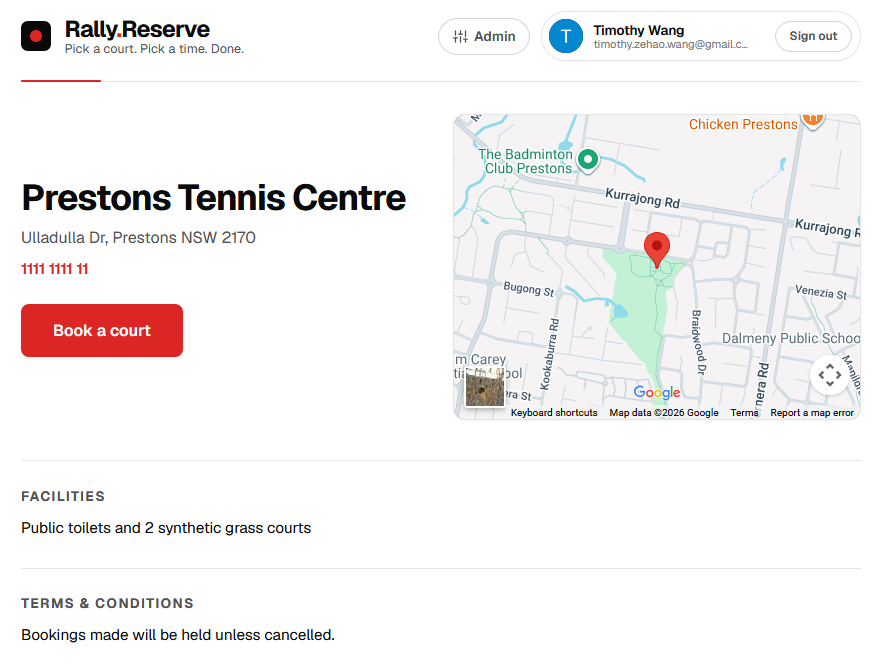
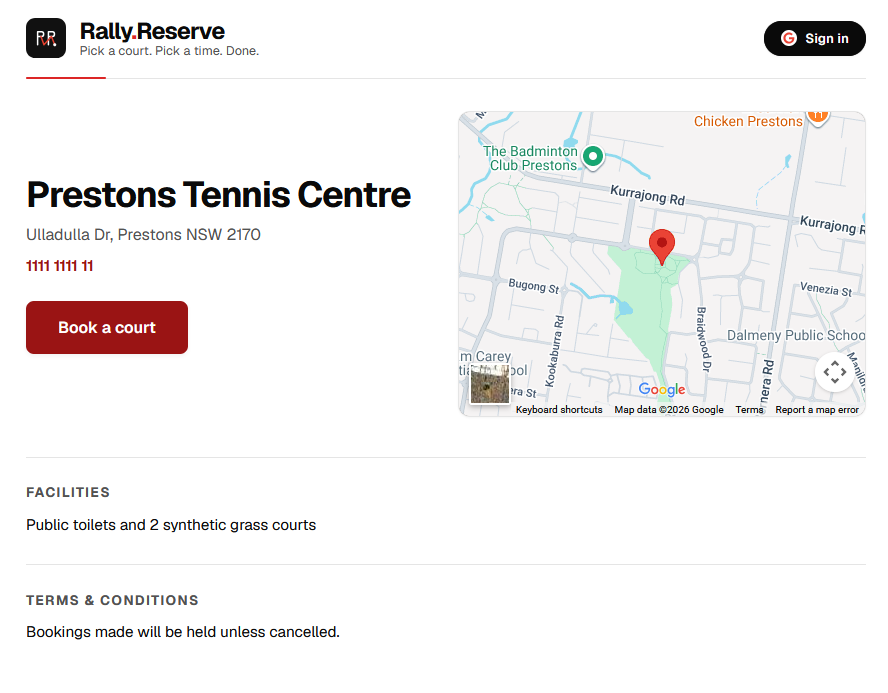
update rally reserve pic

diff --git a/AGENTS.md b/AGENTS.md
@@ -1,0 +1,19 @@
+## Rule 1 — Think Before Coding
+
+State assumptions explicitly. Ask rather than guess.
+Push back when a simpler approach exists. Stop when confused.
+
+## Rule 2 — Simplicity First
+
+Minimum code that solves the problem. Nothing speculative.
+No abstractions for single-use code.
+
+## Rule 3 — Surgical Changes
+
+Touch only what you must. Don't improve adjacent code.
+Match existing style. Don't refactor what isn't broken.
+
+## Rule 4 — Goal-Driven Execution
+
+Define success criteria. Loop until verified.
+Strong success criteria let Codex loop independently.
